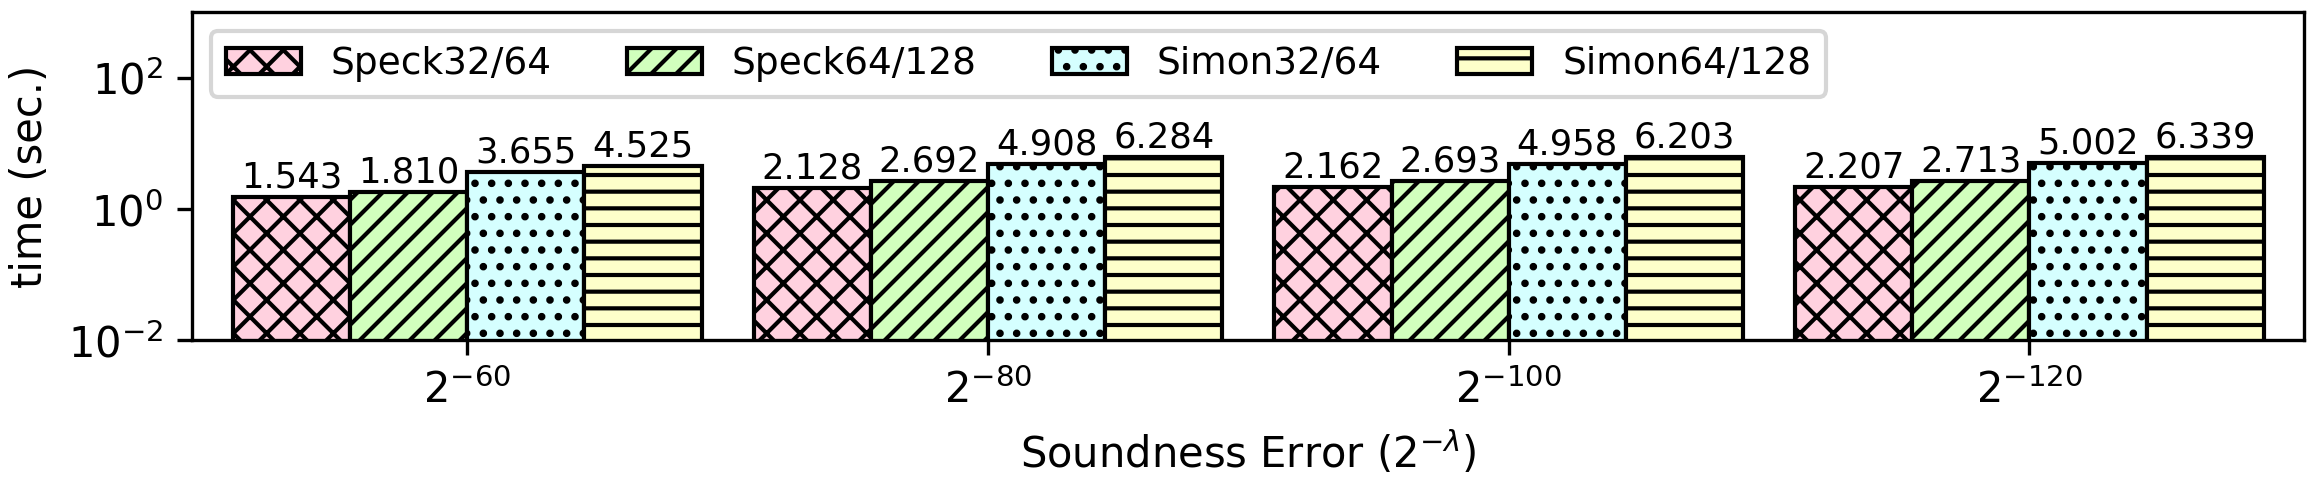
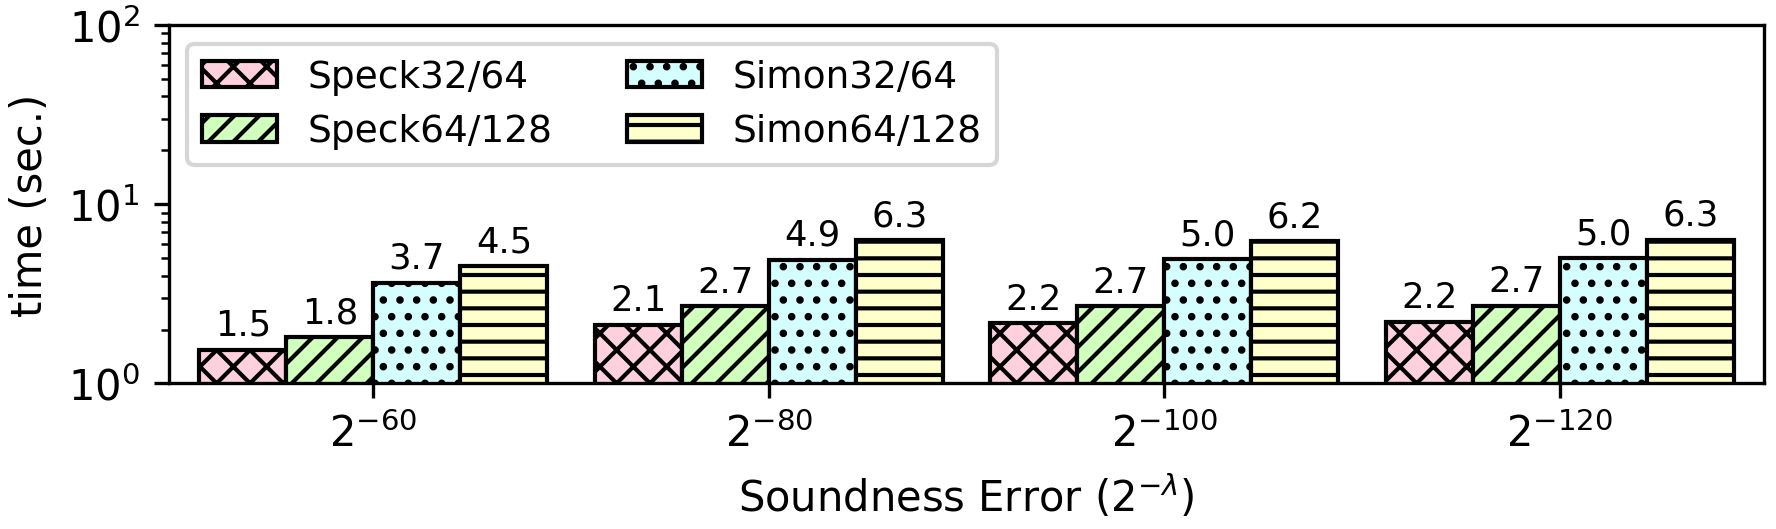
Minor update in speck and simon figure

diff --git a/plots/plot-speck-simon.py b/plots/plot-speck-simon.py
@@ -12,7 +12,7 @@ benchmark = "specksimon"
 mydpi = 300
 figname = benchmark+'.png'
 # pltsize = (6.2, 1.96) # default (8, 6)
-pltsize = (8, 2)
+pltsize = (6.2, 2.1)
 nbits = ["$2^{-60}$", "$2^{-80}$", "$2^{-100}$", "$2^{-120}$"]
 
 data = {
@@ -36,12 +36,10 @@ simon64 = data[benchmark]['simon64']
 N = len(speck32)
 index = np.arange(N)  # the x locations for the groups
 # width = 0.42       # the width of the bars
-width = 0.225       # the width of the bars
+width = 0.22       # the width of the bars
 
 fig, ax = plt.subplots(figsize=pltsize)
 ax.margins(0.02, 0.02) 
-# rects1 = ax.bar(index, speck32, width, color='xkcd:light pink', hatch='xxx', edgecolor='black', linewidth=1)
-# rects2 = ax.bar(index + width, simon32, width, color='xkcd:very light blue', hatch='...', edgecolor='black', linewidth=1)
 
 rects1 = ax.bar(index - width, speck32, width, color='xkcd:light pink', hatch='xxx', edgecolor='black', linewidth=1)
 rects3 = ax.bar(index, speck64, width, color='xkcd:very light green', hatch='////', edgecolor='black', linewidth=1)
@@ -49,12 +47,12 @@ rects2 = ax.bar(index + width, simon32, width, color='xkcd:very light blue', hat
 rects4 = ax.bar(index + 2*width, simon64, width, color='xkcd:ecru', hatch='---', edgecolor='black', linewidth=1)
 
 ax.set_yscale('log')
-ax.set_ylim([0.01, 1000])
+ax.set_ylim([1, 100])
 ax.set_ylabel("time (sec.)")
 ax.set_xlabel("Soundness Error ($2^{-\lambda}$)")
 ax.set_xticks(index + width / 2)
 ax.set_xticklabels(nbits)
-ax.legend((rects1[0], rects3[0], rects2[0], rects4[0]), ("Speck32/64", "Speck64/128", "Simon32/64", "Simon64/128"), fontsize=9, ncol=4, loc='upper left')
+ax.legend((rects1[0], rects3[0], rects2[0], rects4[0]), ("Speck32/64", "Speck64/128", "Simon32/64", "Simon64/128"), fontsize=9, ncol=2, loc='upper left')
 
 # Block size 32 - Key size 64
 # Block size 64 - Key size 128
@@ -63,9 +61,9 @@ def autolabel(rects):
     for rect in rects:
         height = rect.get_height()
         if height > 10:
-            ax.text(rect.get_x() + rect.get_width()/2., 1.1*height, '%2.2f' % (height), ha='center', va='bottom', fontsize=8.5)
+            ax.text(rect.get_x() + rect.get_width()/2., 1.1*height, '%2.1f' % (height), ha='center', va='bottom', fontsize=8.5)
         else:
-            ax.text(rect.get_x() + rect.get_width()/2., 1.1*height, '%2.3f' % (height), ha='center', va='bottom', fontsize=8.5)
+            ax.text(rect.get_x() + rect.get_width()/2., 1.1*height, '%2.1f' % (height), ha='center', va='bottom', fontsize=8.5)
 
 autolabel(rects1)
 autolabel(rects2)
